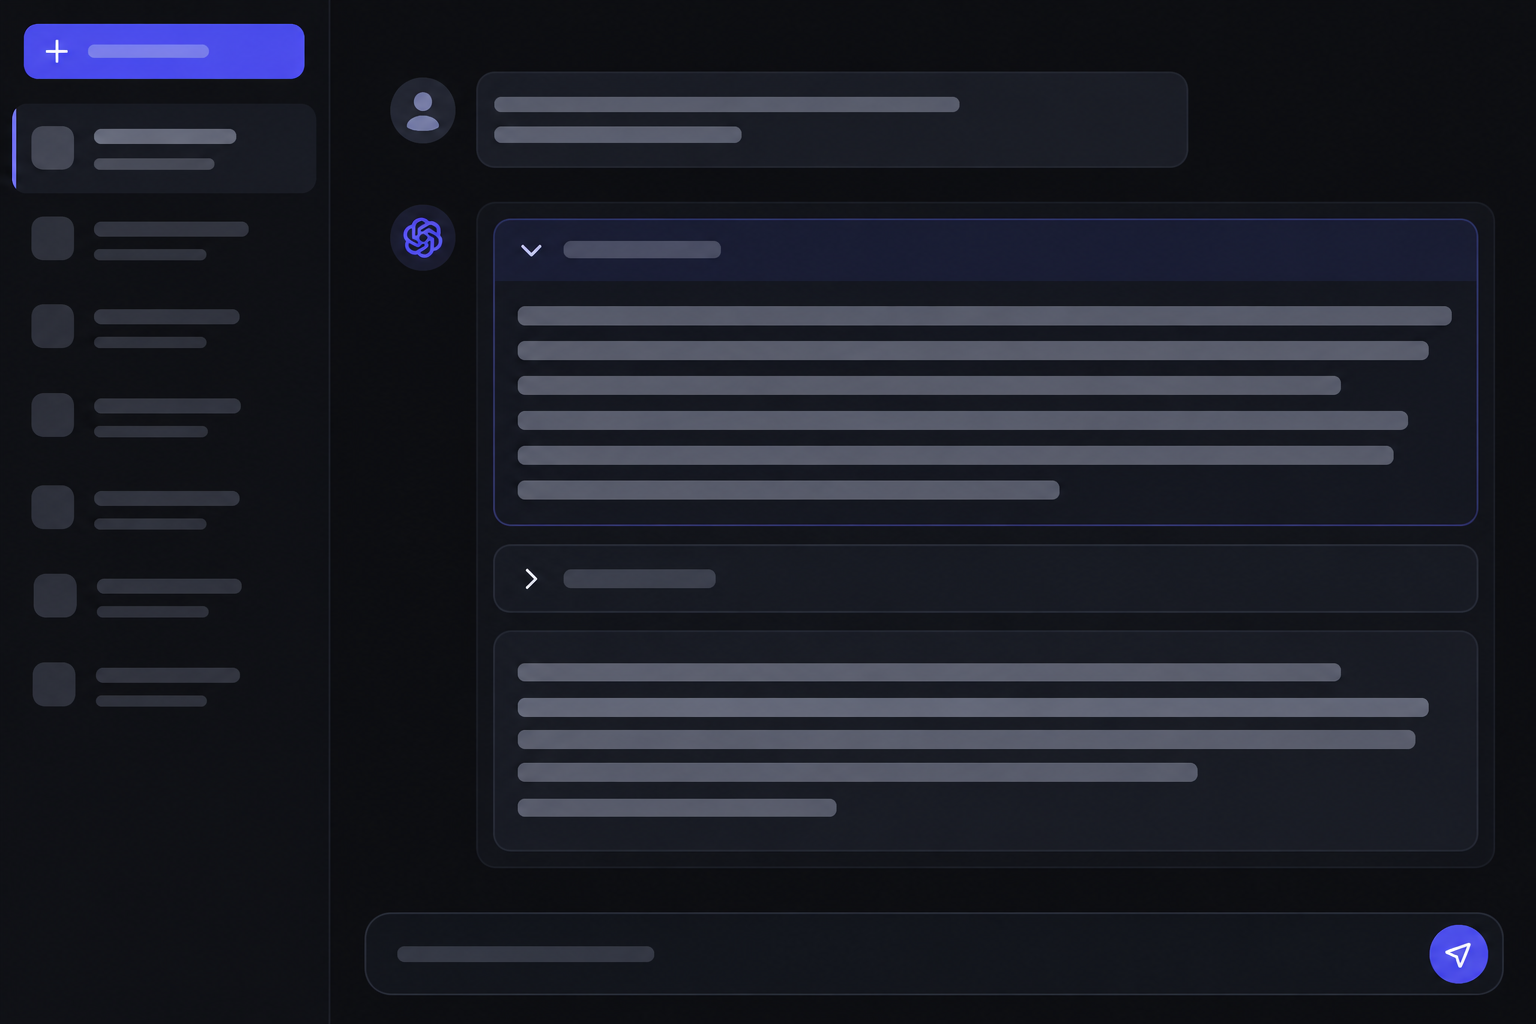
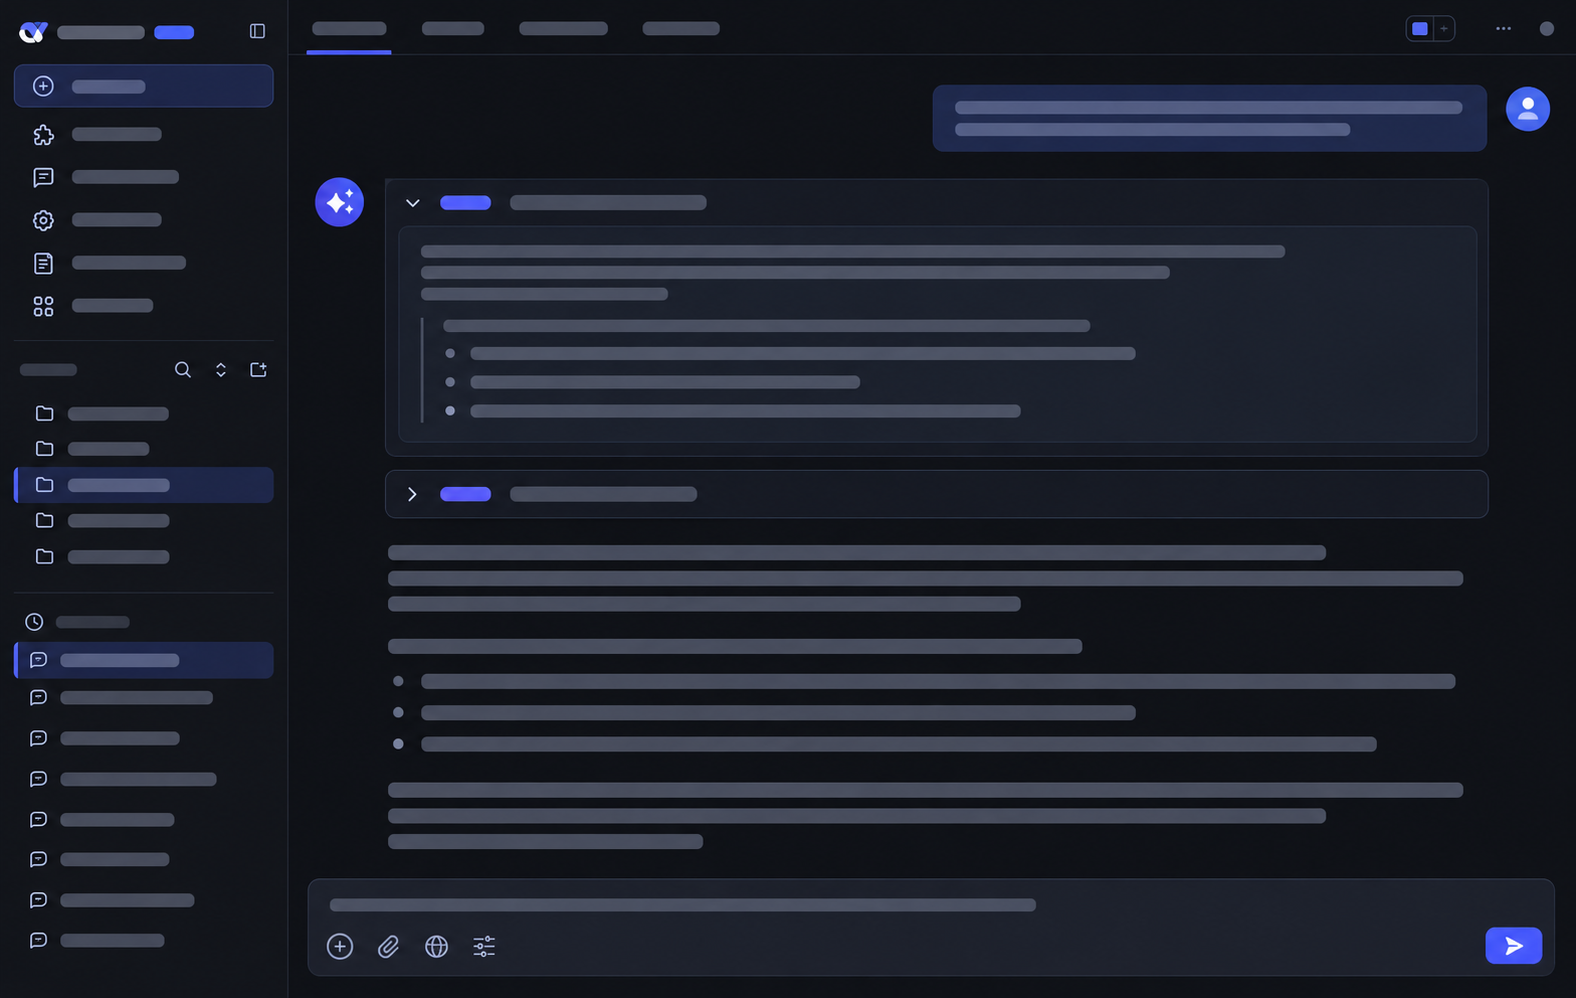
docs: 重写 README 并更新展示图
- README 按用户视角重写，140 行压缩到 102 行，关键信息完整保留
- 展示图替换为参考真实 DSH 界面生成的示意图

diff --git a/README.md b/README.md
@@ -4,96 +4,78 @@
 
 **thinking 输出时自动展开，结束后自动收起，保留手动查看。**
 
-可安装到 DeepSeek Harness 的 Cordis bundle，包名 `@shenjackyuanjie/dsh-expand-think`。安装后在 DSH 插件管理器中管理启用和停用，不需要手动运行补丁脚本。
+DeepSeek Harness（DSH）插件，包名 `@shenjackyuanjie/dsh-expand-think`，行 id `dsh-expand-think`。安装后在 DSH 插件管理器中管理启用和停用，不需要手动运行补丁脚本。
 
 ## 效果
 
-- 每段 thinking 开始流式输出时，自动展开原始思考正文。
-- thinking 结束并转为回答、工具调用，或流式状态因停止／失败结束时，自动收起。
+- 每段 thinking 开始流式输出时自动展开正文；转为回答、工具调用，或流式状态因停止／失败结束时自动收起。
 - 不等待整轮任务结束，按单个 thinking 区块的 `running` 状态切换。
-- 输出中手动收起后，后续 token 不会反复把它展开。
-- 结束后可以手动展开查看原文；历史 thinking 初次显示仍默认折叠。
+- 输出中手动收起后，后续 token 不会反复把它展开；结束后仍可手动展开查看原文。
+- 历史 thinking 初次显示仍默认折叠。
 - 不改变回答内容、工具调用、模型请求或会话记录，也不调用额外模型。
-
-外层的“工作步骤展示”和过程分组仍遵循 DSH 原有设置。本插件只管理 thinking 自身的开合，不额外调整外层分组。
+- 外层的“工作步骤展示”和过程分组仍遵循 DSH 原有设置，本插件只管理 thinking 自身的开合。
 
 ## 展示
 
-![thinking 自动展开与自动收起（示意图）](./docs/thinking-auto-expand.png)
+![thinking 自动展开与自动收起示意图](./docs/thinking-auto-expand.png)
 
 > 上图为界面示意图，非真实运行截图，效果以实际插件行为为准。
 
-## 思考显示设置
+## 设置
 
-在插件详情页的描述与“包含的组件”之间提供两个独立开关：
+插件详情页提供两个独立开关，默认均开启；修改后点击 **保存设置**，保存到当前 profile 的 DSH 原生 Config。
 
 | 设置           | 配置字段       | 默认值 | 关闭后的行为                              |
 | -------------- | -------------- | ------ | ----------------------------------------- |
 | 输出时自动展开 | `autoExpand`   | 开启   | thinking 开始时不强制展开，仍可手动打开。 |
 | 结束后自动收起 | `autoCollapse` | 开启   | thinking 结束时保留当时的开合状态。       |
 
-修改后点击 **保存设置**，两项修改会一并保存到当前 profile 的原生配置。页面提供保存状态、放弃修改和只读提示；版本冲突或保存失败时保留草稿，不假装保存成功。离开页面会放弃未保存的修改。
-
-两项都关闭时，仅保留 DSH 原有的手动开合。手动选择始终受到尊重，同一输出阶段不会因新 token 到来而反复自动切换。
-
-保存只更新 DSH 原生配置，浏览器通过插件自有的只读桥接读取已接受的表单状态；**不改写 Chat 文件，也不触发 Chat 热更新**。新开关值从下一次 thinking 开始／结束切换起使用，不强行改变正在查看的正文。刷新和正常重启后仍保留已保存的值；配置尚未加载或桥接不可用时，保留原生手动开合。
-
-设置只通过插件详情页和 DSH 原生 Config 管理，不注册 Agent 配置 Tool。
-
 设置入口：**侧边栏 → 插件 → dsh-expand-think → 思考显示设置**。
+
+保存只更新原生配置，不改写 Chat 文件、不触发 Chat 热更新，新值从下一次 thinking 状态切换起生效。页面提供保存状态、放弃修改和只读提示，版本冲突或保存失败时保留草稿，不假装保存成功。两项都关闭时仅保留 DSH 原有手动开合，同一输出阶段不会因新 token 到来而反复自动切换。
 
 ## 兼容范围与实现方式
 
-当前版本支持 **DSH `0.2.1-rc.2`、`0.2.1-rc.3` 与 `0.2.1-rc.4`**，对应的 **`@deepseek-ai/dsh-client-ui-chat` `0.2.1-rc.2`／`0.2.1-rc.3`／`0.2.1-rc.4`**。这三个版本的 `ReasoningRow` 锚点完全相同，共用同一份补丁、没有版本分支。更早的宿主版本不再适配：不符合版本要求时停止激活，也不申请兼容性豁免。
+支持 **DSH `0.2.1-rc.2`／`0.2.1-rc.3`／`0.2.1-rc.4`**，以及对应的 **`@deepseek-ai/dsh-client-ui-chat`** 同版本；这三个版本的 `ReasoningRow` 代码锚点完全相同，共用同一份补丁。更早的宿主版本不再适配，版本不符时停止激活。
 
-当前 DSH 的 reasoning Body Slot 仅在正文已经展开后挂载，无法控制外层开合。因此，这一版采用 **Host 插件管理的最小本地前端补丁**，不是 DOM 点击模拟，也不复制整套 Chat renderer。
-
-插件从 `clientModules.clientPath()` 获取实际前端产物，校验包版本和唯一代码锚点，再通过原子替换添加状态同步逻辑。完成后调用 `clientModules.rebuilt()`，由 DSH 原生 HMR 发布前端新版本。
+DSH 的 reasoning Body Slot 仅在正文已经展开后挂载，无法控制外层开合，因此采用 Host 插件管理的**磁盘级前端补丁**，不是 DOM 点击模拟：从 `clientModules.clientPath()` 取实际前端产物，校验包版本和唯一代码锚点，原子替换后调用 `clientModules.rebuilt()`，由 DSH 原生 HMR 发布前端新版本。
 
 - **启用／启动：** 应用补丁。
 - **停用／卸载／正常退出：** 只反向移除本补丁，保留其他位置的用户修改。
 - **其他代码已经修改了补丁内部：** 保留文件并记录诊断，不用旧备份覆盖新代码。
 - **进程被强制终止：** 磁盘补丁可能保留；再次启用时会识别并接管。
 
-这是磁盘级前端补丁。同一台机器上，其他 profile 或进程若共用同一份 Chat 前端产物，也可能受到影响；建议只由一个 DSH 实例管理该产物。安装目录需要可写。后续 DSH 版本应重新核对扩展接口和代码锚点。
+风险提示：同一台机器上其他 profile 或进程若共用同一份 Chat 前端产物，也可能受到影响，建议只由一个 DSH 实例管理该产物；安装目录需要可写；后续 DSH 版本应重新核对扩展接口和代码锚点。
 
 ## 安装与使用
 
-### 安装打包产物
+### 安装本地 tgz
 
-在 DSH 插件管理器中选择本地 `shenjackyuanjie-dsh-expand-think-0.3.2.tgz` 安装，然后启用 **dsh-expand-think · 思考自动展开**。
-
-命令行也可通过 DSH 自己的插件入口安装。以下命令在安装了 DSH 的目录执行，`web` 替换为实际 profile：
+在 DSH 插件管理器中选择 `shenjackyuanjie-dsh-expand-think-0.3.2.tgz` 安装，然后启用 **dsh-expand-think · 思考自动展开**。命令行在安装了 DSH 的目录执行，`web` 替换为实际 profile：
 
 ```powershell
 pnpm dsh plugin --profile web add "D:\路径\shenjackyuanjie-dsh-expand-think-0.3.2.tgz"
 ```
 
-默认两项均开启。插件启用或停用时仍需应用／撤销一次前端补丁，可能触发一次 Chat 更新；保存开关不触发该流程。
+插件启用或停用时需要应用／撤销一次前端补丁，可能触发一次 Chat 更新；保存开关不触发该流程。
 
 ### 从 GitHub Packages 安装
 
-包已发布到 GitHub Packages：`@shenjackyuanjie/dsh-expand-think`。GitHub 的 npm registry 读取公开包也需要认证，使用具备 `read:packages` 的 classic PAT 在本机登录（不要提交 token）：
+包已发布到 GitHub Packages：`@shenjackyuanjie/dsh-expand-think`。GitHub 的 npm registry 读取公开包也需要认证，使用具备 `read:packages` 的 classic PAT 在本机登录（不要提交 token）；Username 填 GitHub 用户名，Password 填 PAT：
 
 ```powershell
 npm config set '@shenjackyuanjie:registry' 'https://npm.pkg.github.com' --location=user
 npm login --scope=@shenjackyuanjie --auth-type=legacy --registry=https://npm.pkg.github.com
-pnpm dsh plugin --profile web add @shenjackyuanjie/dsh-expand-think@0.3.1
+pnpm dsh plugin --profile web add @shenjackyuanjie/dsh-expand-think@0.3.2
 ```
-
-登录时 Username 填 GitHub 用户名，Password 填 PAT。首次发布后需在 GitHub 的 Package settings 中确认包可见性为 Public。
 
 **从 0.2.2 及更早版本升级：** 包名已改为 `@shenjackyuanjie/dsh-expand-think`，行 id 为 `dsh-expand-think`。先在插件管理器卸载旧的 `dsh-expand-thnk`，再安装新包；旧包名的设置不会迁移，新包装好后按默认值（两项均开启）开始。旧版本留下的本地补丁会在新插件启用时被识别并接管，不需要手动清理。
 
-### 停用或卸载
+**停用或卸载：** 在插件管理器中停用或卸载 `dsh-expand-think`，正常停用会撤销思考区块补丁并通知前端更新。启用期间不要另外运行手工脚本修改 Chat 产物，以免两个管理入口互相覆盖。
 
-在 DSH 插件管理器中停用或卸载 `dsh-expand-think`。正常停用会撤销思考区块补丁，并通知前端更新。
+## 开发与验证
 
-启用期间不要另外运行手工脚本修改 Chat 产物，以免造成两个管理入口互相覆盖。
-
-## 开发与打包
-
-项目使用 Node.js 内置模块，以及 DSH 同版本的 `@deepseek-ai/schemastery` 声明原生 Config；无安装脚本、无编译构建步骤。Client 使用宿主 React，不打包另一份 React。代码风格由 Prettier 统一。
+纯 JavaScript，无安装脚本、无编译构建；Client 使用宿主 React，不打包另一份 React；代码风格由 Prettier 统一。
 
 ```powershell
 pnpm install --frozen-lockfile
@@ -103,38 +85,18 @@ pnpm test
 pnpm run pack
 ```
 
-需要改写格式时执行 `pnpm run format`。
-
-生成的归档位于 `dist/`。发行文件白名单由 [package.json](./package.json) 的 `files` 字段控制，不包含测试、Git 数据、备份、日志或凭据。
-
-也可以把实际安装的 Chat 前端产物路径传给测试，验证真实版本的精确代码锚点：
+需要改写格式时执行 `pnpm run format`；生成的归档位于 `dist/`，发行文件白名单由 [package.json](./package.json) 的 `files` 字段控制。也可以把实际安装的 Chat 前端产物路径传给测试，验证真实版本的精确代码锚点：
 
 ```powershell
 node test.mjs "D:\实际路径\dsh-client-ui-chat\lib\client.js"
 ```
 
-## 文件结构
+源码分工：[index.js](./index.js) 负责 Host 生命周期、版本验证、原子写入、HMR 与停用还原，[patch-core.js](./patch-core.js) 负责纯文本补丁与 thinking 状态边沿同步，[settings.js](./settings.js) 声明两个原生 volatile Config 字段，[client.js](./client.js) 渲染详情页的两个开关与保存提示。
 
-- [index.js](./index.js)：Host 生命周期、版本验证、原子写入、HMR 与停用还原。
-- [patch-core.js](./patch-core.js)：纯文本补丁与 thinking 状态边沿同步策略。
-- [settings.js](./settings.js)：两个原生 volatile Config 字段。
-- [client.js](./client.js)：插件详情页中的两项开关、草稿和保存提示。
-- [cordis.patch.yml](./cordis.patch.yml)：向当前 profile 插入正式插件条目。
-- [test.mjs](./test.mjs)：离线回归，不登录、不调用模型、不模拟 React 或 DOM。
-- [locale/zh.json](./locale/zh.json)、[locale/en.json](./locale/en.json)：插件标题和描述。
-- [icon.svg](./icon.svg)：本项目原创的展开／收起图标。
-- [CHANGELOG.md](./CHANGELOG.md)：版本记录。
+45 项离线测试覆盖自动开合、四种开关组合、手动选择保留、多区块隔离、历史默认折叠、插件启停、三个受支持宿主版本、设置保存与版本冲突、保存不产生额外 HMR、只读配置桥接及清理、不注册额外配置 Tool、包名与插槽标识一致、HMR 回调重入、延后挂载、版本拒绝，以及不覆盖其他修改；测试不登录、不调用模型、不模拟 React 或 DOM，生命周期仅修改隔离临时目录。0.2.1 移除保存时重载 Chat 的路径后，两个开关已经使用者重启截图确认；0.3.0 改用新包名后需要重新在页面上复核。长时间输入框稳定性与浅色主题仍未完成实际页面复核，离线测试不能替代这部分验证。
 
-## 验证边界
+## 发布
 
-45 项离线测试覆盖自动开合、四种开关组合、手动选择保留、多区块隔离、历史默认折叠、插件启停、三个受支持宿主版本、设置保存和版本冲突、保存不产生额外 HMR、只读配置桥接及清理、不注册额外配置 Tool、包名与插槽标识一致、HMR 回调重入、延后挂载、版本拒绝，以及不覆盖其他修改。可用最小 fixture 或只读的真实 Chat 产物执行，生命周期测试仅修改隔离临时目录。
-
-0.1.0 的核心开合逻辑曾由使用者在当前 DSH 页面确认正常。0.2.0 连续保存设置的热更新验证期间，使用者报告输入框频繁消失，停用后恢复；0.2.1 已移除保存时重载 Chat 的路径，并经使用者重启后截图确认两个开关显示正常。0.3.0 改用新包名、收敛到当前宿主版本并移除旧补丁迁移代码，重新安装后需要在页面上复核。长时间输入框稳定性与浅色主题仍未完成实际页面复核；离线测试不能替代这部分验证。
-
-## 发布状态
-
-源码公开托管于 [GitHub：shenjackyuanjie/dsh-expand-think](https://github.com/shenjackyuanjie/dsh-expand-think)，包发布在 GitHub Packages 的 `@shenjackyuanjie` scope 下。
-
-发布用 `pnpm publish`（`publishConfig` 已固定 registry 与 public 访问）。GitHub 的包可见性不自动继承仓库，首次发布后需在 Package settings 中确认 Public。
+源码公开托管于 [GitHub：shenjackyuanjie/dsh-expand-think](https://github.com/shenjackyuanjie/dsh-expand-think)，包发布在 GitHub Packages 的 `@shenjackyuanjie` scope 下。发布用 `pnpm publish`（`publishConfig` 已固定 registry 与 public 访问）；GitHub 的包可见性不自动继承仓库，首次发布后需在 Package settings 中确认 Public。
 
 以 [GNU GPL-3.0-or-later 许可证](./LICENSE)发布，Copyright (c) 2026 shenjackyuanjie。
